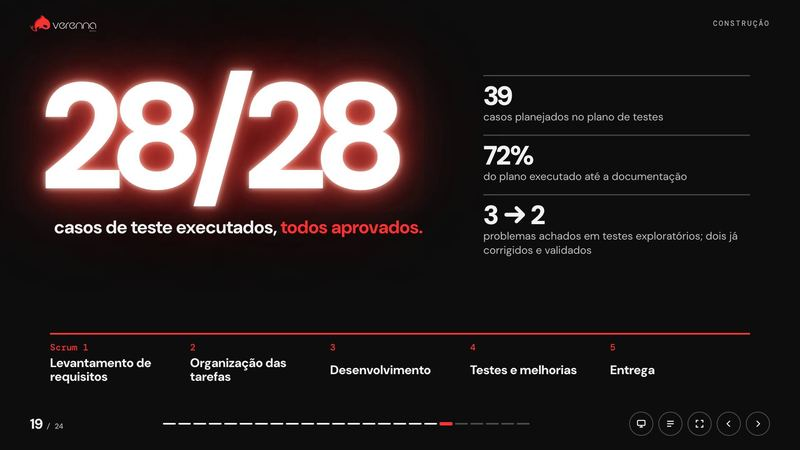
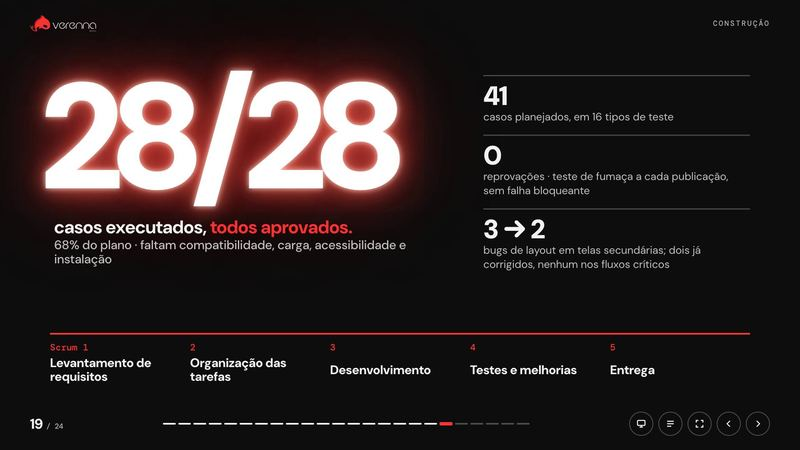
Testes com os números do Plano de Testes (Apêndice E)

diff --git a/index.html b/index.html
@@ -774,11 +774,11 @@ button{font:inherit;color:inherit;background:none;border:0;cursor:pointer}
 <!-- 18 QUALIDADE -->
 <section class="scene s-qa" data-title="Testes e método" data-chap="Construção">
   <div class="big glow rv num">28/28</div>
-  <p class="cap1 rv" style="--d:300">casos de teste executados, <span class="c">todos aprovados.</span></p>
+  <p class="cap1 rv" style="--d:300">casos executados, <span class="c">todos aprovados.</span><br><span style="font-size:30px;font-weight:500;color:var(--soft)">68% do plano · faltam compatibilidade, carga, acessibilidade e instalação</span></p>
   <div class="facts rv" style="--d:500">
-    <div><b class="num">39</b><span>casos planejados no plano de testes</span></div>
-    <div><b class="num">72%</b><span>do plano executado até a documentação</span></div>
-    <div><b class="num">3 → 2</b><span>problemas achados em testes exploratórios; dois já corrigidos e validados</span></div>
+    <div><b class="num">41</b><span>casos planejados, em 16 tipos de teste</span></div>
+    <div><b class="num">0</b><span>reprovações · teste de fumaça a cada publicação, sem falha bloqueante</span></div>
+    <div><b class="num">3 → 2</b><span>bugs de layout em telas secundárias; dois já corrigidos, nenhum nos fluxos críticos</span></div>
   </div>
   <div class="scrum rv" style="--d:700"><div><em>Scrum 1</em><b>Levantamento de requisitos</b></div><div><em>2</em><b>Organização das tarefas</b></div><div><em>3</em><b>Desenvolvimento</b></div><div><em>4</em><b>Testes e melhorias</b></div><div><em>5</em><b>Entrega</b></div></div>
 </section>
@@ -830,7 +830,7 @@ button{font:inherit;color:inherit;background:none;border:0;cursor:pointer}
     <div data-at="3"><i>✓</i><div><b>Tecnologia aplicada à gestão</b><p>React, Django REST e PostgreSQL, com RBAC e cuidado com a LGPD.</p></div></div>
     <div data-at="4"><i>✓</i><div><b>Base para crescer</b><p>no ar em domínio próprio, pronto para outras oficinas.</p></div></div>
   </div>
-  <div class="next rv" style="--d:400"><span class="tag" style="color:#fff">Próximos passos</span><ul><li>Acompanhar o uso diário na Oficina 3L</li><li>Levar o RevisaCar a outras oficinas</li><li>Concluir os 11 casos de teste restantes</li></ul></div>
+  <div class="next rv" style="--d:400"><span class="tag" style="color:#fff">Próximos passos</span><ul><li>Acompanhar o uso diário na Oficina 3L</li><li>Levar o RevisaCar a outras oficinas</li><li>Executar os 13 casos de teste pendentes</li></ul></div>
 </section>
 
 <!-- 23 FIM -->
@@ -1111,11 +1111,11 @@ const NOTES={
 's-cli':['O dono do carro também tem o app: é um PWA, instala sem loja.','Vê o orçamento item por item e aprova ou recusa; agenda em 4 passos; acompanha a saúde do carro. Até pelo link, sem instalar.','Prioridade do projeto: aumentar a confiança do cliente.'],
 's-cmp':['Arraste a alça ao vivo: antes, papel e mensagem solta; depois, a oficina num lugar só.'],
 's-arch':['Três camadas: React com Vite e TypeScript; API em Django REST; PostgreSQL no Supabase; publicado no Render a partir do GitHub.','Acesso por papel (RBAC), login separado de dono e funcionário, LGPD e escapeHtml() no PDF.'],
-'s-qa':['28 casos de teste executados, todos aprovados, de 39 planejados.','3 problemas achados em testes exploratórios, 2 já corrigidos. Trabalhamos com Scrum.'],
+'s-qa':['Plano de testes com 41 casos em 16 tipos de teste. 28 executados, todos aprovados, nenhuma reprovação.','Faltam 13: compatibilidade, carga, acessibilidade e instalação.','3 bugs de layout em telas secundárias, 2 já corrigidos. Teste de fumaça a cada publicação desde junho, sem falha bloqueante. Trabalhamos com Scrum.'],
 's-tl':['Fevereiro a novembro de 2026. (→ a orca nada a linha do tempo)','Fundação, pesquisa, requisitos, protótipos, telas, QA, correções, homologação, monitoramento e a defesa hoje.'],
 's-team':['Oito pessoas em cinco frentes, com orientação da Prof.ª Pamela Andrelo. Cada um se apresenta pela sua frente.','Clique nas frentes para destacar quem fez o quê.'],
 's-ig':['A Verenna também se comunica: @verenna.digital.','Em 30 dias: 1.940 visualizações, 679 contas alcançadas, 75 seguidores. O post mais visto teve 825 visualizações.'],
-'s-end':['Um problema real, confirmado com 53 estabelecimentos.','Uma solução prática, com tecnologia aplicada à gestão e base para crescer.','Próximos passos: uso diário na Oficina 3L, novas oficinas e terminar o plano de testes.'],
+'s-end':['Um problema real, confirmado com 53 estabelecimentos.','Uma solução prática, com tecnologia aplicada à gestão e base para crescer.','Próximos passos: uso diário na Oficina 3L, novas oficinas e executar os 13 casos de teste pendentes.'],
 's-fin':['Obrigado. Abrir para perguntas.','Se pedirem demo: revisacarapp.com.']
 };
 const thumb=i=>new URL('thumbs/s'+String(i).padStart(2,'0')+'.jpg',location.href).href;
